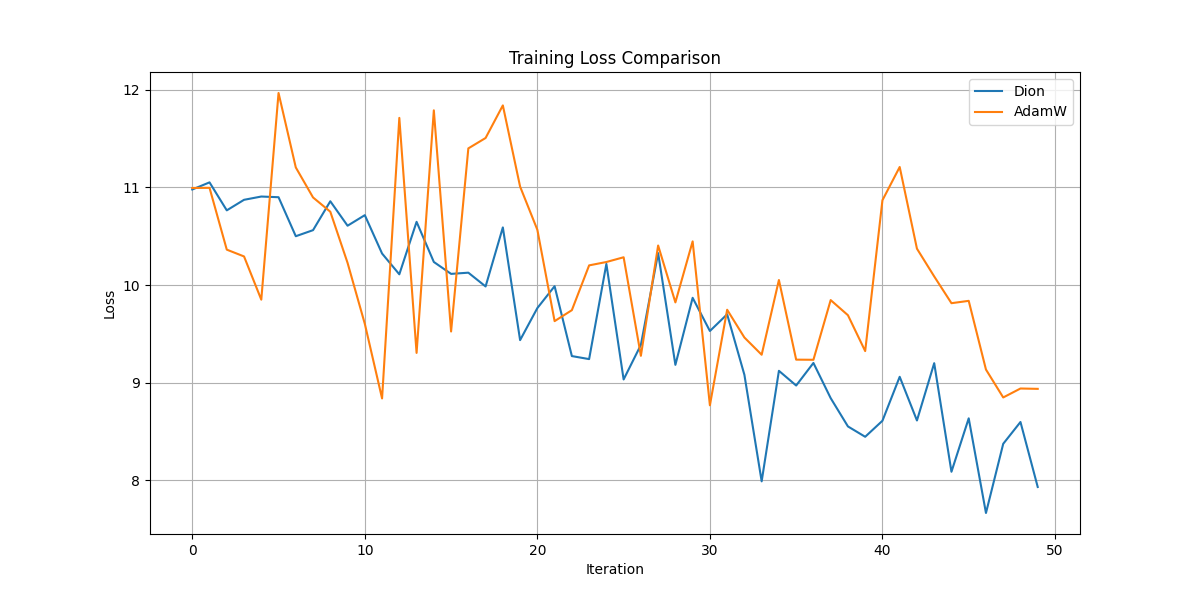
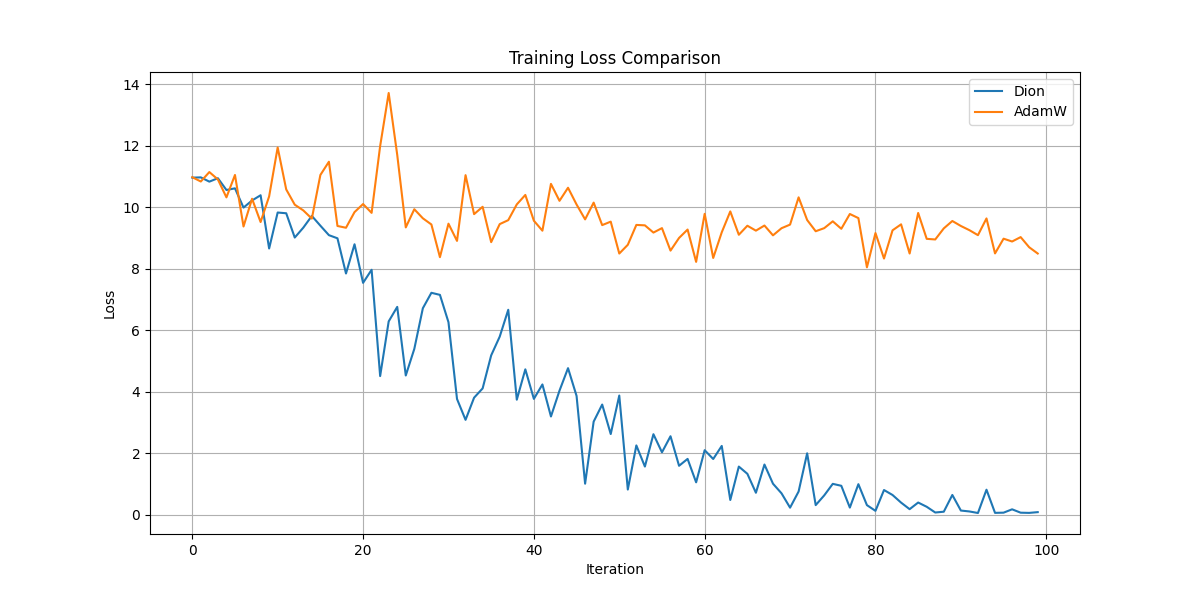
add benchmark with much larger model...dion looks good!

diff --git a/src/compare_optimizers.py b/src/compare_optimizers.py
@@ -14,7 +14,7 @@ from dion import create_dion_optimizer
 
 # Define a larger transformer model with multiple layers
 class LargeTransformer(nn.Module):
-    def __init__(self, d_model=2048, d_ff=8192, vocab_size=50000, num_layers=4):
+    def __init__(self, d_model=2048, d_ff=8192, vocab_size=50000, num_layers=16):
         super().__init__()
         self.embedding = nn.Embedding(vocab_size, d_model)
 
@@ -91,7 +91,7 @@ def reset_memory_stats():
 
 def compare_optimizers():
     # Set random seed for reproducibility
-    torch.manual_seed(42)
+    torch.manual_seed(2020)
 
     # Check if CUDA is available
     device = torch.device("cuda" if torch.cuda.is_available() else "cpu")
@@ -101,10 +101,10 @@ def compare_optimizers():
     d_model = 2048
     d_ff = 8192
     vocab_size = 50000
-    num_layers = 4
+    num_layers = 32
     batch_size = 8  # Reduced batch size due to larger model
     seq_len = 64
-    num_iterations = 50  # Reduced iterations for faster comparison
+    num_iterations = 100  # Reduced iterations for faster comparison
     lr = 0.001  # Reduced learning rate for stability with larger model
     weight_decay = 0.0001
 
